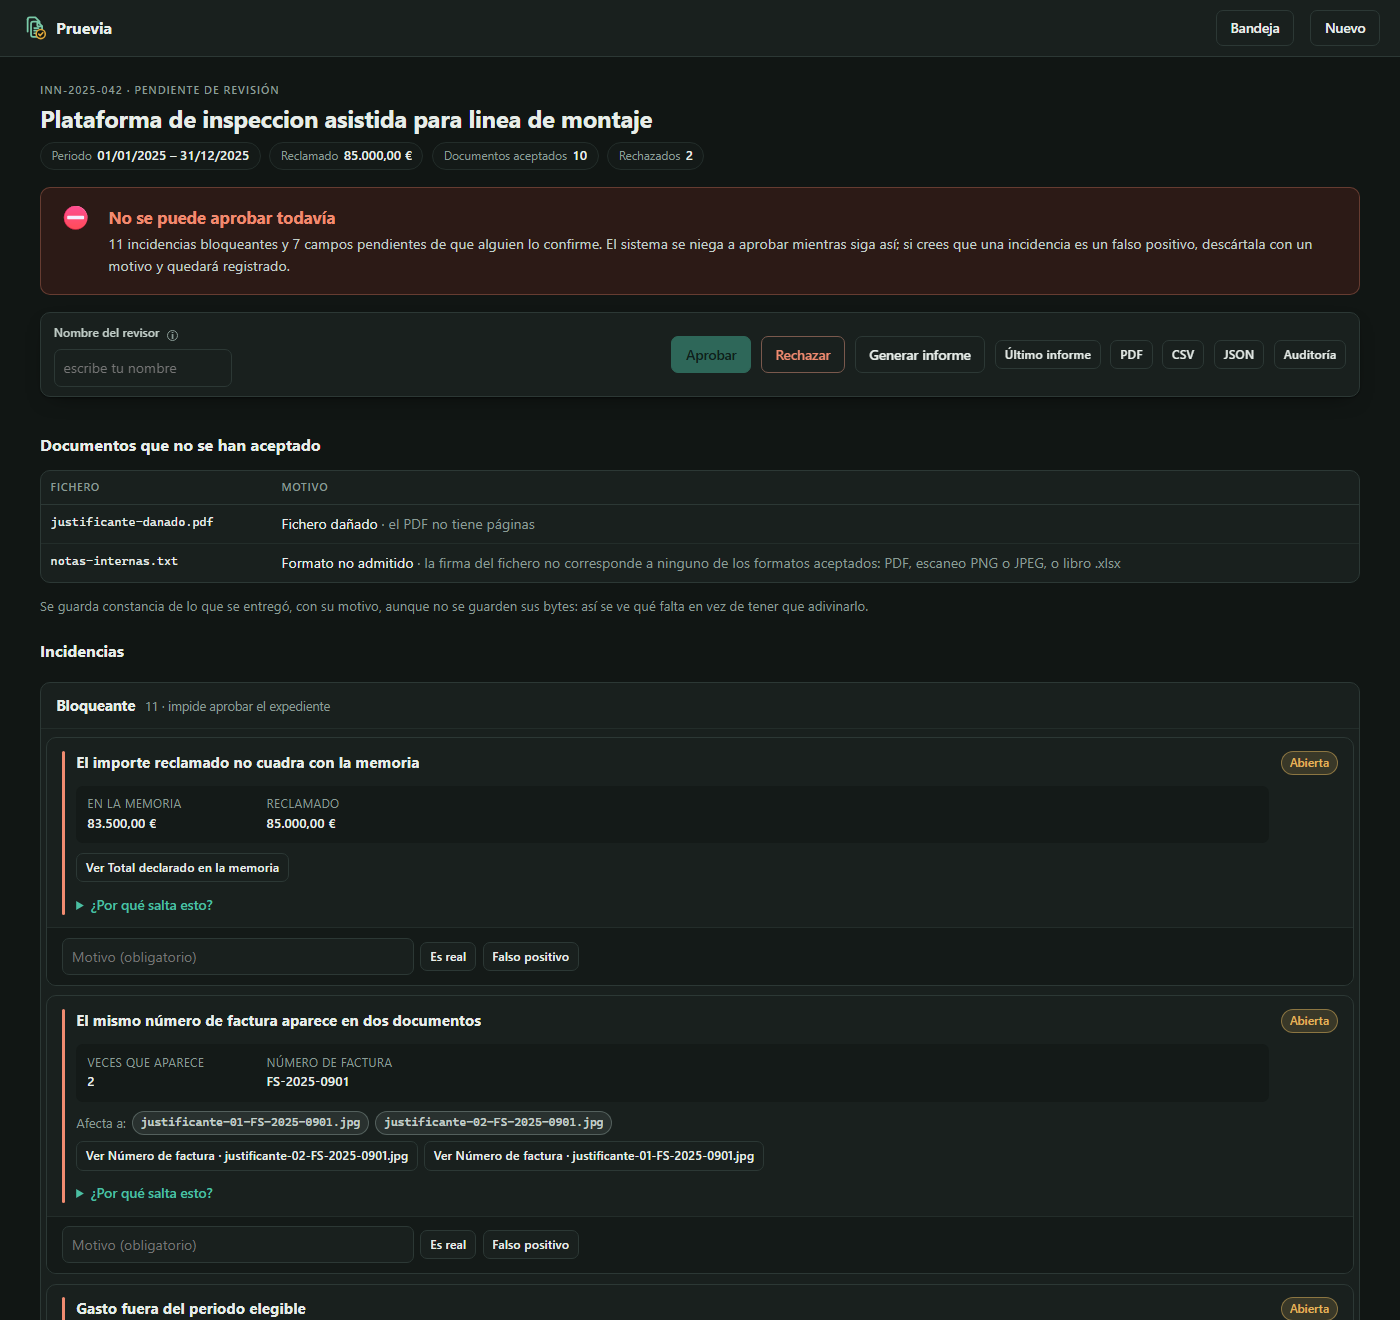
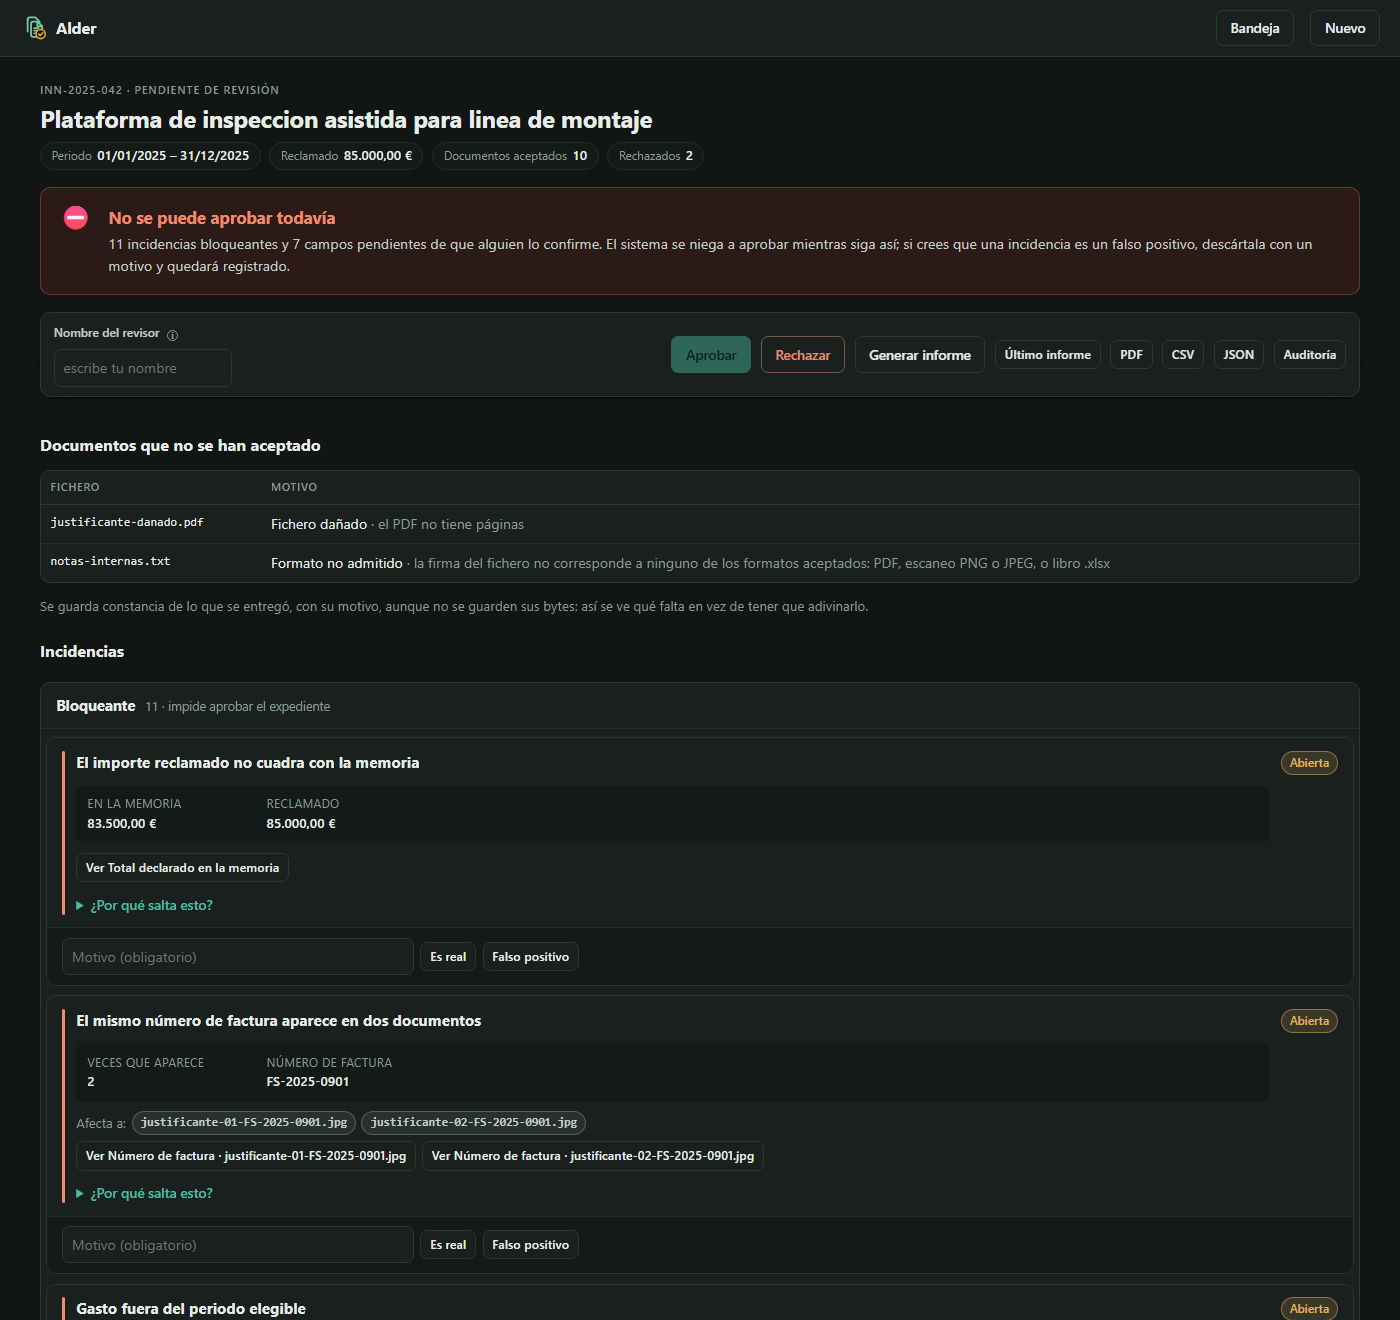
chore: publish the Alder identity

diff --git a/src/iep/api/templates/_base.html b/src/iep/api/templates/_base.html
@@ -453,7 +453,7 @@ body.copilot-on { padding-right: min(var(--copilot-w), 100vw); }
       <path d="M22.1 23.7l1.7 1.7 3-3.4" fill="none" stroke="var(--seal)"
             stroke-width="1.9" stroke-linecap="round" stroke-linejoin="round"/>
     </svg>
-    <span class="wordmark">Pruevia</span>
+    <span class="wordmark">Alder</span>
   </a>
   {% block topactions %}{% endblock %}
 </header>

diff --git a/src/iep/api/app.py b/src/iep/api/app.py
@@ -127,7 +127,7 @@ def create_app() -> FastAPI:
         yield
 
     app = FastAPI(
-        title="Pruevia API",
+        title="Alder API",
         version=__version__,
         description=DESCRIPTION,
         openapi_tags=TAGS,

diff --git a/src/iep/__init__.py b/src/iep/__init__.py
@@ -1,3 +1,3 @@
-"""Pruevia document-evidence pipeline."""
+"""Alder document-evidence pipeline."""
 
 __version__ = "0.1.0"

diff --git a/README.en.md b/README.en.md
@@ -1,6 +1,6 @@
 **English** · [Español](README.md)
 
-# Pruevia
+# Alder
 
 **Auditable document review with a verifiable path back to every source.**
 

diff --git a/README.md b/README.md
@@ -1,6 +1,6 @@
 **Español** · [English](README.en.md)
 
-# Pruevia
+# Alder
 
 **Revisión documental con un camino verificable hasta cada fuente.**
 
